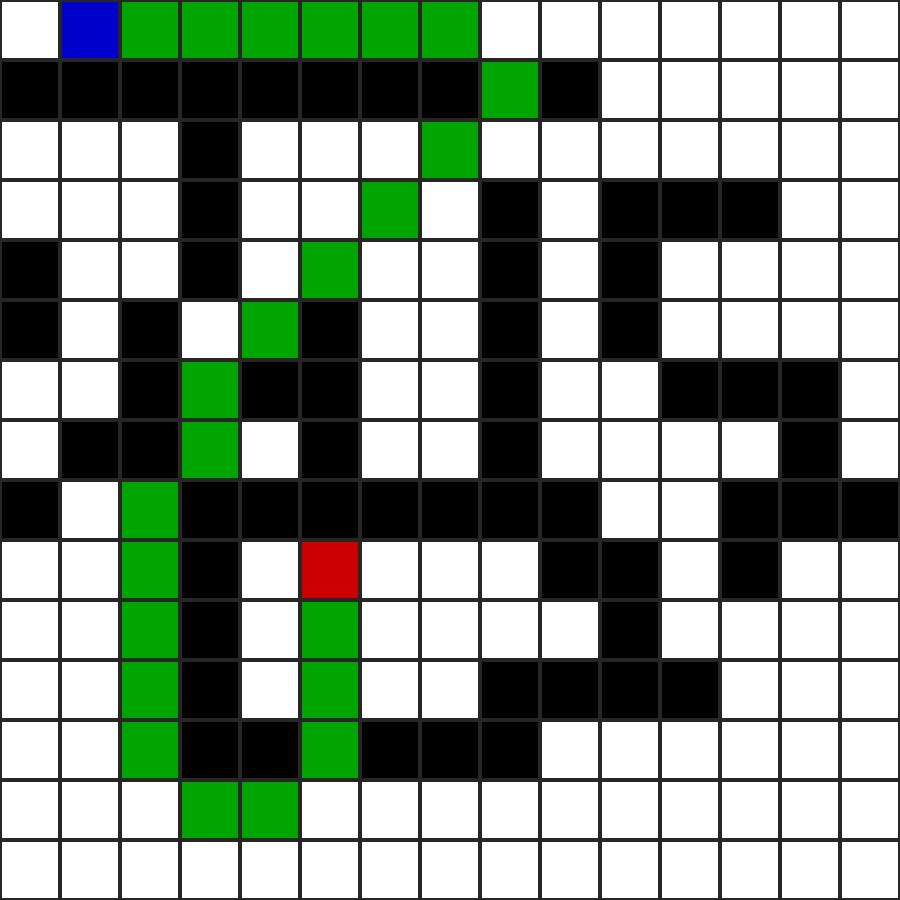
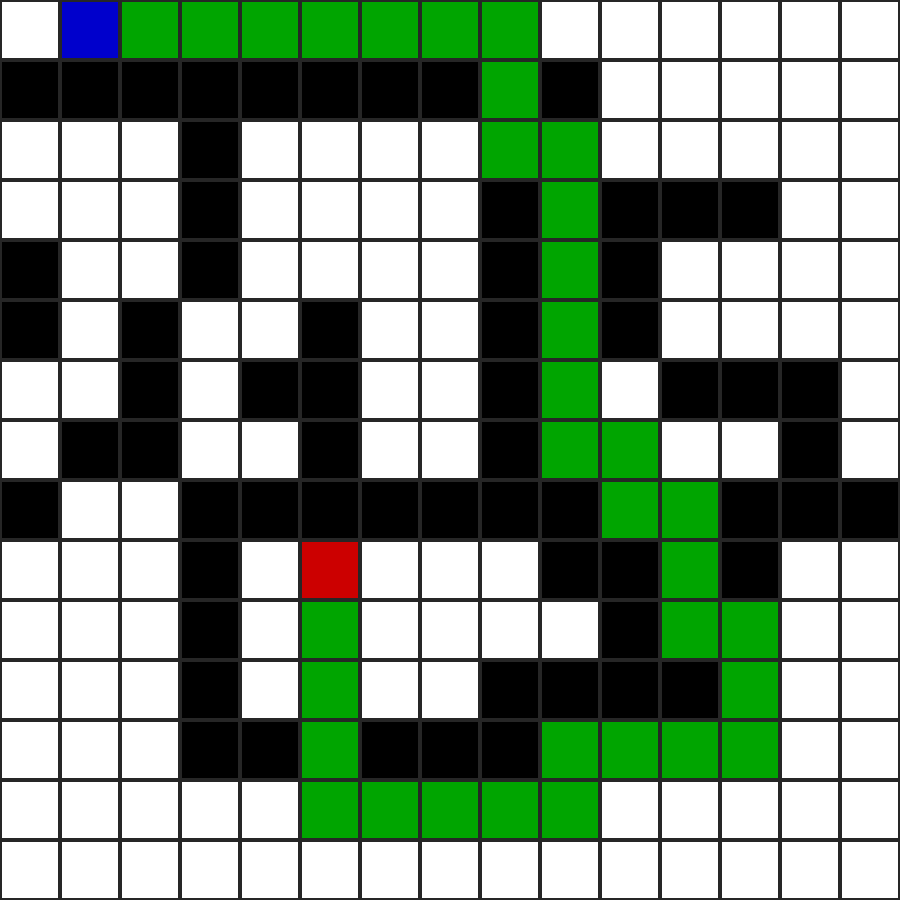
Update README with screenshots

Changed region(s): [[0.1244, 0.1244, 0.8711, 0.9333], [0.5289, 0.0, 0.6222, 0.0622]]

diff --git a/README.md b/README.md
@@ -1,14 +1,78 @@
 # pathfinder-2d
-A 2D Pathfinder using the A* algorithm along with visualization.
+A 2D Pathfinder using the A* algorithm along with Map visualization. 
 
-### Extra Tasks
+## Map Details
+--- 
+The algorithm finds the path between the Blue node to the Red node. The Black nodes are walls with the White nodes being walkable.
+<p align="center">
+<img width="450" src="screenshots/a1.png" >
+</p>
+
+The path is generated and shown as Green Nodes in:-
+<p align="center">
+<img width="300" src="screenshots/a1.png" >
+<img width="300" src="screenshots/a2.png" >
+</p>
+
+--- 
+## Extra Maps with Path Generation
+--- 
+- The Path taken changes if target is moved.
+<p align="center">
+<img width="300" src="screenshots/b1.png" >
+<img width="300" src="screenshots/b2.png" >
+</p>
+
+- Another case with the target far away from the origin
+<p align="center">
+<img width="300" src="screenshots/c1.png" >
+<img width="300" src="screenshots/c2.png" >
+</p>
+
+---
+## Options for the Visualisation
+--- 
+The user can tweak Grid Coloring options for better visualisation of the Pathfinding algo.
+For a given map such as:-
+<p align="center">
+<img width="300" src="screenshots/0.png" >
+<img width="300" src="screenshots/1.png" >
+</p>
+
+- The user can choose to toggle all the nodes which were called to find the path.
+<p align="center">
+<img width="300" src="screenshots/1.png" >
+<img width="300" src="screenshots/2.png" >
+</p>
+
+- The user can also toggle all the neighbour nodes of these nodes.
+<p align="center">
+<img width="300" src="screenshots/2.png" >
+<img width="300" src="screenshots/3.png" >
+</p>
+
+## Options for the Pathfinding
+--- 
+The pathfinding algo can also be tweaked by providing various constraints.
+For the previous map:-
+<p align="center">
+<img width="300" src="screenshots/0.png" >
+<img width="300" src="screenshots/1.png" >
+</p>
+
+- The user can ban Diagonal movement on the Grid leading to a different path
+<p align="center">
+<img width="300" src="screenshots/1.png" >
+<img width="300" src="screenshots/4.png" >
+</p>
+
+--- 
+## Extra Features that can be later added
 
 - Add Other Algos such as:-
   - [ ] BFS
   - [ ] Dijkstra
   - [ ] GBFS
 - [ ] Add Path weights
-- [X] Heap Optimization
-- [X] Disable Diagonal movement
 - [ ] Elevated Points
 - [ ] 3D Map
